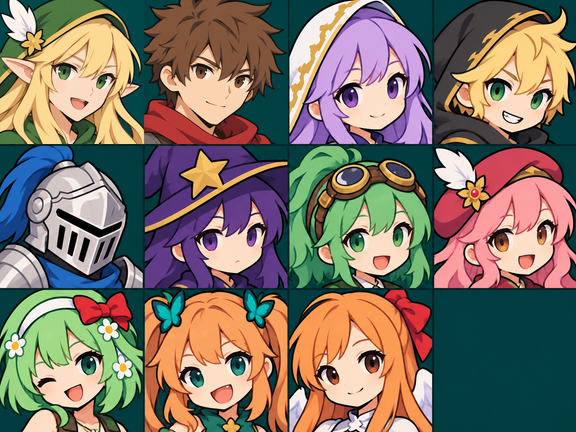
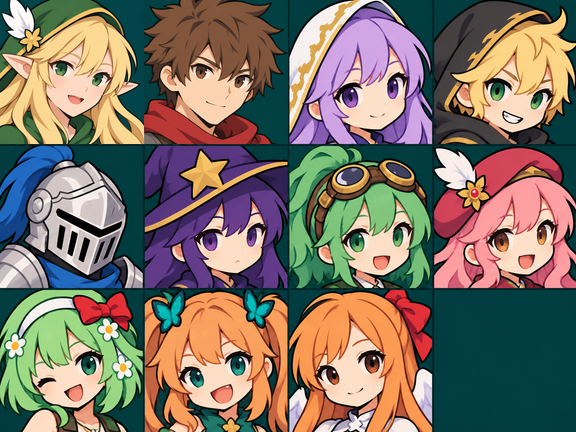
Soften Aria portrait while preserving approved Leon

Changed region(s): [[0.0, 0.0, 0.25, 0.331]]

diff --git a/docs/prologue-dialogue-art.md b/docs/prologue-dialogue-art.md
@@ -37,3 +37,9 @@
 簡潔な絵柄と表示サイズは維持し、二人の顔つきを既存の肖像・受け渡しスチルの青年らしさに合わせた。目の縦幅と頬の丸みを抑え、顎、鼻筋、首元を少ない線で描く。アリアの明るさとレオンの穏やかな笑顔、髪色・服の目印は保つ。人物の設定年齢を新たに定める変更ではない。
 
 組み込み画像生成ツールで2列×1行の二人の差し替え画像を制作し、通常用・高密度用アトラスの先頭2セルだけに配置した。64pxの新旧比較を確認し、残る9人と空きセルは通常用・高密度用とも画素が一致することを確認した。最終プロンプトは [年齢感調整の生成記録](dialogue-portraits-age-generation.json) に記載。
+
+### アリアのやわらかさ
+
+レオンの了承後、アリアだけを追加調整。青年らしい比率と簡潔な描画を保ち、頬と顎に少し丸みを戻し、目元・小さな鼻・控えめな笑顔で女の子らしいやわらかさを出す。幼い顔や、弱々しい表情には戻さない。表示寸法は変更しない。
+
+通常用・高密度用の先頭1セルだけを差し替え、レオンを含む全ての他セルの画素一致と、アリアの64px表示を確認した。最終プロンプトは [アリア調整の生成記録](dialogue-portraits-aria-soft-generation.json) に記載。
